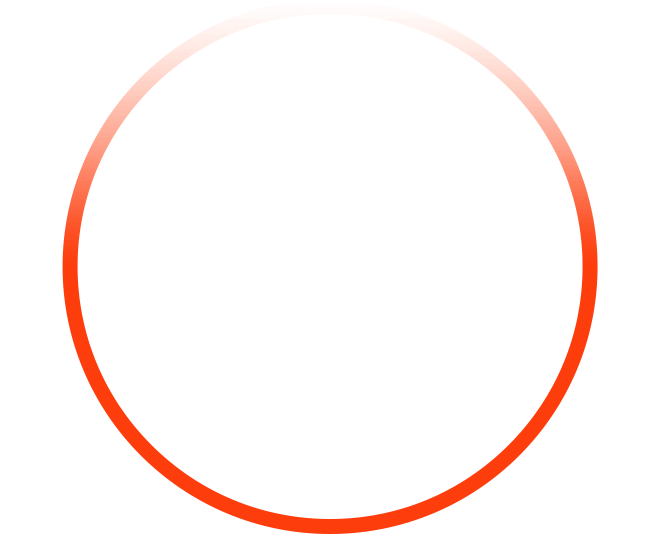
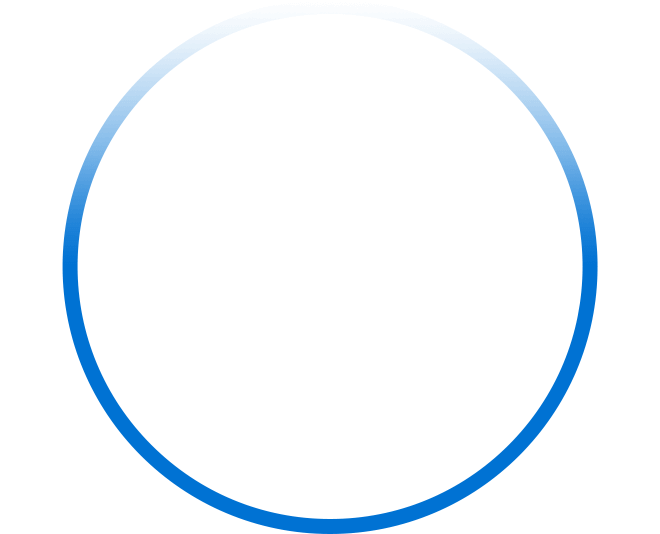
intial commit

Changed region(s): [[0.0909, 0.0599, 0.9091, 1.0]]

diff --git a/index.html b/index.html
@@ -5,12 +5,12 @@
   <meta charset="UTF-8">
   <meta http-equiv="X-UA-Compatible" content="IE=edge">
   <meta name="viewport" content="width=device-width, initial-scale=1.0">
-  <title>Fitlife - Work Hard To Get Better Life</title>
+  <title>Fitfusion  - Work Hard To Get Better Life</title>
 
   <!-- 
     - favicon
   -->
-  <link rel="shortcut icon" href="./favicon.svg" type="image/svg+xml">
+  <link rel="shortcut icon" href="C:\Users\amanp\Downloads\fitfusion\Fitfusion-20240430T130108Z-001\Fitfusion\assets\images\Fitfusion (No BG).png" type="image/svg+xml">
 
   <!-- 
     - custom css link
@@ -56,7 +56,7 @@
 
       <a href="#" class="logo">
         <img src="assets/images/Fitfusion (No BG).png" class="logo">
-        <span class="span">Fitlife</span>
+        <span class="span">Fitfusion</span>
       </a>
 
       <nav class="navbar" data-navbar>
@@ -91,7 +91,7 @@
 
       </nav>
 
-      <a href="#" class="btn btn-secondary">Join Now</a>
+      <a href="Fitfusion-20240430T130108Z-001\Fitfusion\login.html" class="btn btn-secondary">Login</a>
 
       <button class="nav-open-btn" aria-label="open menu" data-nav-toggler>
         <span class="line"></span>
@@ -120,13 +120,13 @@
           <div class="hero-content">
 
             <p class="hero-subtitle">
-              <strong class="strong">The Best</strong>Fitness Club
+              <strong class="strong">The Best</strong>Fitfusion 
             </p>
 
             <h1 class="h1 hero-title">Work Hard To Get Better Life</h1>
 
             <p class="section-text">
-              Duis mollis felis quis libero dictum vehicula. Duis dictum lorem mi, a faucibus nisi eleifend eu.
+              Embrace hard work as the key to unlocking a better, healthier, and more fulfilling life for yourself. You've got this!
             </p>
 
             <a href="#" class="btn btn-primary">Get Started</a>
@@ -179,17 +179,14 @@
 
             <p class="section-subtitle">About Us</p>
 
-            <h2 class="h2 section-title">Welcome To Our Fitness Gym</h2>
+            <h2 class="h2 section-title">Welcome To Our Fitnessfusion Gym</h2>
 
             <p class="section-text">
-              Nam ut hendrerit leo. Aenean vel ipsum nunc. Curabitur in tellus vitae nisi aliquet dapibus non et erat.
-              Pellentesque
-              porta sapien non accumsan dignissim curabitur sagittis nulla sit amet dolor feugiat.
+              Welcome to FitnessFusion Gym, where we're dedicated to helping you achieve your fitness goals through a unique blend of innovative workouts, expert guidance, and a supportive community. Join us on this journey to transform your health and discover the joy of fitness in a welcoming and inclusive environment.
             </p>
 
             <p class="section-text">
-              Integer placerat vitae metus posuere tincidunt. Nullam suscipit ante ac aliquet viverra vestibulum ante
-              ipsum primis.
+              Join us as we blend fitness and fun!
             </p>
 
             <div class="wrapper">
@@ -282,7 +279,7 @@
                   </div>
 
                   <p class="card-text">
-                    Suspendisse nisi libero, cursus ac magna sit amet, fermentum imperdiet nisi.
+                    Elevate your fitness journey with our weightlifting package, combining strength training, expert guidance, and a supportive community atmosphere.
                   </p>
 
                   <div class="card-progress">
@@ -324,7 +321,7 @@
                   </div>
 
                   <p class="card-text">
-                    Suspendisse nisi libero, cursus ac magna sit amet, fermentum imperdiet nisi.
+                    Balanced fitness: Cardio for endurance, strength training for muscle. Achieve your goals with a comprehensive workout regimen.
                   </p>
 
                   <div class="card-progress">
@@ -366,7 +363,7 @@
                   </div>
 
                   <p class="card-text">
-                    Suspendisse nisi libero, cursus ac magna sit amet, fermentum imperdiet nisi.
+                    Elevate your practice with Power Yoga: dynamic flows, strength-building poses, and mindful breathing for a transformative mind-body experience.
                   </p>
 
                   <div class="card-progress">
@@ -408,7 +405,7 @@
                   </div>
 
                   <p class="card-text">
-                    Suspendisse nisi libero, cursus ac magna sit amet, fermentum imperdiet nisi.
+                    Unleash your potential with 'The Fitness Pack': tailored workouts, expert guidance, and a supportive community for your wellness journey.
                   </p>
 
                   <div class="card-progress">
@@ -658,8 +655,7 @@
                   </h3>
 
                   <p class="card-text">
-                    Praesent id ipsum pellentesque lectus dapibus condimentum curabitur eget risus quam. In hac
-                    habitasse platea dictumst.
+                    Stepping into the gym after two decades felt like reuniting with an old friend—daunting yet exhilarating. Here's my journey
                   </p>
 
                   <a href="#" class="btn-link has-before">Read More</a>
@@ -676,18 +672,17 @@
                   <img src="./assets/images/blog-2.jpg" width="440" height="270" loading="lazy"
                     alt="Parturient accumsan cacus pulvinar magna" class="img-cover">
 
-                  <time class="card-meta" datetime="2022-07-07">7 July 2022</time>
+                  <time class="card-meta" datetime="2022-07-07">24 July 2020</time>
                 </div>
 
                 <div class="card-content">
 
                   <h3 class="h3">
-                    <a href="#" class="card-title">Parturient accumsan cacus pulvinar magna</a>
+                    <a href="#" class="card-title">From Couch to Confident: My Personal Gym Transformation Journey</a>
                   </h3>
 
                   <p class="card-text">
-                    Praesent id ipsum pellentesque lectus dapibus condimentum curabitur eget risus quam. In hac
-                    habitasse platea dictumst.
+                    Join me on my journey from couch potato to confident gym-goer. Discover the highs, lows, and victories as I transform my life through fitness, one workout at a time.
                   </p>
 
                   <a href="#" class="btn-link has-before">Read More</a>
@@ -704,18 +699,17 @@
                   <img src="./assets/images/blog-3.jpg" width="440" height="270" loading="lazy"
                     alt="Risus purus namien parturient accumsan cacus" class="img-cover">
 
-                  <time class="card-meta" datetime="2022-07-07">7 July 2022</time>
+                  <time class="card-meta" datetime="2022-07-07">26 June  2021</time>
                 </div>
 
                 <div class="card-content">
 
                   <h3 class="h3">
-                    <a href="#" class="card-title">Risus purus namien parturient accumsan cacus</a>
+                    <a href="#" class="card-title">Breaking Barriers: Navigating the Phases of Hard Work in the Gym - From Struggle to Strength</a>
                   </h3>
 
                   <p class="card-text">
-                    Praesent id ipsum pellentesque lectus dapibus condimentum curabitur eget risus quam. In hac
-                    habitasse platea dictumst.
+                    From initial struggles to newfound strength, my gym journey unveils the phases of hard work and personal growth.
                   </p>
 
                   <a href="#" class="btn-link has-before">Read More</a>

diff --git a/assets/css/style.css b/assets/css/style.css
@@ -29,7 +29,7 @@
   --sonic-silver: hsl(0, 0%, 47%);
   --cadet-gray: hsl(214, 15%, 62%);
   --light-gray: hsl(0, 0%, 80%);
-  --coquelicot: hsl(12, 98%, 52%);
+  --coquelicot: hsl(244, 85%, 64%);
   --gainsboro: hsl(0, 0%, 88%);
   --white_20: hsl(0, 0%, 100%, 0.2);
   --white_10: hsl(0, 0%, 100%, 0.1);
@@ -393,7 +393,7 @@ body {
 
 .nav-open-btn .line {
   background-color: var(--white);
-  width: 30px;
+  width: 50px;
   height: 3px;
 }
 
@@ -745,7 +745,7 @@ body {
   display: flex;
   flex-wrap: wrap;
   gap: 2rem;
-  background-color: hsl(12, 98%, 52%);
+  background-color: hsl(244, 85%, 64%);
   border-radius: 30px;
   margin-left: 19rem;
 }
@@ -821,7 +821,7 @@ section.pricing{
 	height: 140px;
 	position: relative;
 	border-radius: 10px 10px 0px 0px;
-	background-color: hsl(12, 98%, 52%);
+	background-color:hsl(244, 85%, 64%);
 }
 .pricing-card-header .pricing-card-title{
 	font-size: 24px;
@@ -839,7 +839,7 @@ section.pricing{
 	top: 100%;
 	left: 50%;
 	transform: translate(-50%, -50%);
-	border: 5px solid hsl(12, 98%, 52%);
+	border: 5px solid hsl(244, 85%, 64%);
 	border-radius: 50%;
 	display: flex;
 	justify-content: center;
@@ -878,7 +878,7 @@ section.pricing{
 	margin-bottom: 20px;
 }
 .pricing-card-body ul li i{
-	color: #d1d5db;
+	color: #84b4fc;
 	margin-right: 8px;
 }
 .pricing-card-body .price-plan-btn{
@@ -887,7 +887,7 @@ section.pricing{
   text-align: center;
   margin-left: auto;
   margin-right: auto;
-  color: rgb(253, 61, 13);
+  color: hsl(244, 85%, 64%);
   
 }
 .pricing-card:nth-child(2) .tag-box{
@@ -941,7 +941,7 @@ section.pricing{
 
 .review__container > span {
   font-size: 6rem;
-  color: rgb(255, 51, 0);
+  color: hsl(244, 85%, 64%);
   opacity: 0.8;
 }
 
@@ -953,7 +953,7 @@ section.pricing{
   margin-bottom: 2rem;
   font-size: 2rem;
   font-weight: 600;
-  color: rgb(255, 51, 0);
+  color:hsl(244, 85%, 64%);
 }
 
 .review__content p {
@@ -995,7 +995,7 @@ section.pricing{
   align-items: center;
   gap: 2rem;
   transform: scale(1.8);
-  color: rgb(255, 51, 0);
+  color:hsl(244, 85%, 64%);
   opacity: 0.8;
 }
 
@@ -1130,7 +1130,7 @@ footer{
   content: '';
   height: 2px;
   width: 15%;
-  background: #f12020;
+  background:hsl(244, 85%, 64%);
   top: -10px;
 }
 .left .content p{

diff --git a/fitfusion_login.html b/fitfusion_login.html
@@ -6,7 +6,7 @@
     <meta name="viewport" content="width=device-width, initial-scale=1.0">
     <link rel="stylesheet" href="https://cdnjs.cloudflare.com/ajax/libs/font-awesome/6.4.2/css/all.min.css">
     <link rel="stylesheet" href="style.css">
-    <title>Modern Login Page |</title>
+    <title>Fitfusion-login |</title>
     <style>@import url('https://fonts.googleapis.com/css2?family=Montserrat:wght@300;400;500;600;700&display=swap');
 
         *{
@@ -262,7 +262,7 @@
                     <button class="hidden" id="login">Sign In</button>
                 </div>
                 <div class="toggle-panel toggle-right">
-                    <h1>Hello, Friend!</h1>
+                    <h1>Hello, Fitness Enthusiasts</h1>
                     <p>Register with your personal details to use all of site features</p>
                     <button class="hidden" id="register">Sign Up</button>
                 </div>
